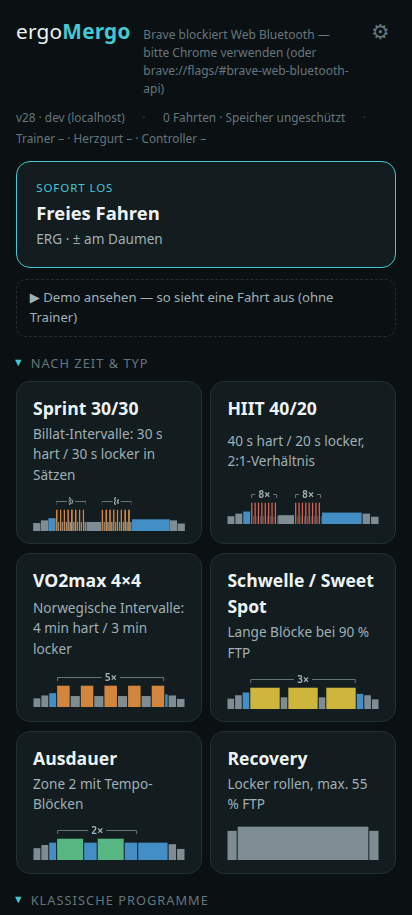
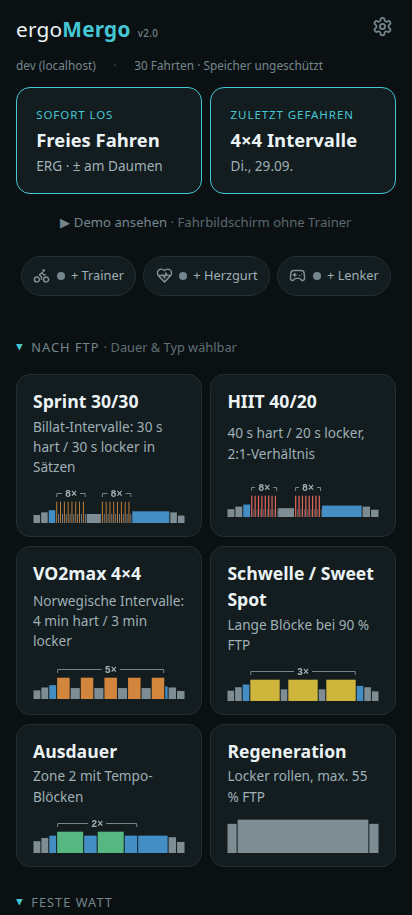
docs: README-Screenshots neu (Start mit Historie, Fahrbildschirm, Panel „Geräte und Töne", Fahrten, Querformat) — die alten zeigten noch v28
Claude-Session: https://claude.ai/code/session_01U7zYTZjzx3D8DmVkVyvKja

diff --git a/README.md b/README.md
@@ -27,9 +27,9 @@ ergoMergo ist genau das: eine einzige statische Web-App (Vanilla JS, Web
 Bluetooth/FTMS, keine Buildkette, kein Backend), alle Daten bleiben lokal auf
 dem Gerät.
 
-| | |
-|---|---|
-| ![Startbildschirm](docs/img/start.png) | ![Fahrmodus](docs/img/fahrt.png) |
+| | | | |
+|---|---|---|---|
+| ![Startbildschirm](docs/img/start.png) | ![Fahrbildschirm](docs/img/fahrt.png) | ![Panel „Geräte und Töne"](docs/img/panel.png) | ![Fahrten-Historie](docs/img/fahrten.png) |
 
 ![Fahrmodus im Querformat](docs/img/quer.png)
 
